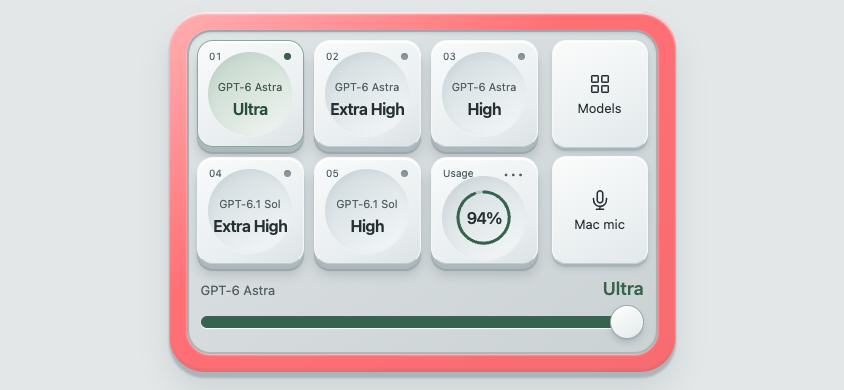
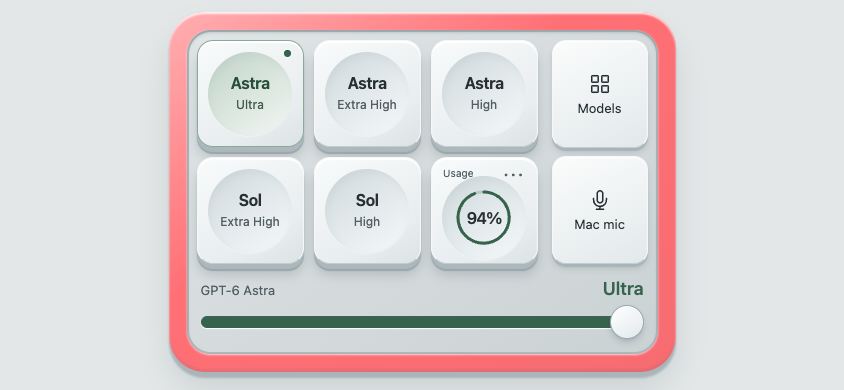
Simplify preset labels and explain the Codex Deck workflow

diff --git a/Sources/CodexUsageWeb/Resources/deck.js b/Sources/CodexUsageWeb/Resources/deck.js
@@ -16,6 +16,19 @@
     return String(model || "Model").replace(/^gpt-/i, "GPT-").replace(/-(astra|sol|luna|terra)$/i, (_, name) => " " + name[0].toUpperCase() + name.slice(1));
   }
 
+  function presetModelLabels(presets, models = []) {
+    const names = presets.map(preset => {
+      const model = models.find(item => [item.id, item.name].some(value => modelIdentity(value) === modelIdentity(preset.model)));
+      const full = modelLabel(model?.name || preset.model);
+      const match = /^GPT[- ](\d+(?:\.\d+)?) (Astra|Sol|Luna|Terra)$/i.exec(full);
+      return { full, version: match?.[1], family: match?.[2] };
+    });
+    return names.map(name => {
+      const ambiguous = name.family && names.some(other => other.family?.toLowerCase() === name.family.toLowerCase() && other.version !== name.version);
+      return { full: name.full, short: name.family ? name.family + (ambiguous ? ` ${name.version}` : "") : name.full };
+    });
+  }
+
   // Match PickerLabels.modelKey for read-only selected-state display.
   function modelIdentity(model) {
     return String(model || "").toLowerCase().replace(/[^\p{L}\p{N}]/gu, "").replace(/^gpt/, "");
@@ -615,21 +628,21 @@
       byID("notice-text").textContent = message || "";
       byID("feedback").textContent = feedback?.message || message || "";
       const presets = (snapshot?.presets || []).slice(0, 5);
-      const signature = JSON.stringify(presets);
+      const labels = presetModelLabels(presets, models);
+      const signature = JSON.stringify([presets, labels]);
       if (signature !== presetSignature) {
         presetSignature = signature;
-        keys = presets.map(preset => {
+        keys = presets.map((preset, index) => {
           const button = element("button", "deck-key model-key");
           button.type = "button";
-          const top = element("span", "key-top");
           const status = element("span", "sr-only");
           const led = element("span", "key-led");
           led.setAttribute("aria-hidden", "true");
-          top.append(element("span", "key-number", String(preset.slot).padStart(2, "0")), led, status);
-          const name = modelLabel(preset.model);
+          const name = labels[index];
           const effort = effortLabels[preset.effort] || preset.effort;
-          button.append(top, element("span", "key-model", name), element("span", "key-effort", effort));
-          button.setAttribute("aria-label", `${preset.slot}: ${preset.title || `${name}, ${effort}`}`);
+          button.append(led, status, element("span", "key-model", name.short), element("span", "key-effort", effort));
+          button.setAttribute("aria-label", `${preset.slot}: ${name.full}, ${effort}`);
+          button.title = `${preset.title || `${name.full} · ${effort}`} (⌘⌃${preset.slot})`;
           button.addEventListener("click", () => void controller.applyPreset(preset));
           return { button, status, preset };
         });
@@ -729,7 +742,7 @@
   }
 
   if (typeof module !== "undefined" && module.exports) {
-    module.exports = { deckActivity, modelEffort, validControl, pressFeedback, DeckController, consumePairingToken, modelLabel, isPresetSelected, usagePercent, POLL_INTERVAL };
+    module.exports = { presetModelLabels, deckActivity, modelEffort, validControl, pressFeedback, DeckController, consumePairingToken, modelLabel, isPresetSelected, usagePercent, POLL_INTERVAL };
   } else {
     const token = consumePairingToken(window.location, window.history);
     let render = () => {};

diff --git a/Sources/CodexUsageWeb/Resources/deck.css b/Sources/CodexUsageWeb/Resources/deck.css
@@ -76,14 +76,14 @@ h1, h2, p { margin: 0; }
 .catalog-key[aria-pressed="true"] .catalog-name { color: #294f3c; }
 .catalog-key[aria-pressed="true"]::after { content: ""; position: absolute; right: 9px; top: 9px; width: 6px; height: 6px; border-radius: 50%; background: var(--green); }
 .key-top { position: absolute; top: 9%; left: 11%; right: 11%; display: flex; align-items: center; justify-content: space-between; gap: 5px; color: var(--secondary); font-size: clamp(.625rem, 7cqw, .875rem); font-variant-numeric: tabular-nums; }
-.key-led { width: 7px; height: 7px; border-radius: 50%; background: #8c999f; box-shadow: inset 0 1px 2px #26323840; }
-.key-model { color: var(--secondary); font-size: clamp(.6875rem, 9cqw, 1.125rem); line-height: 1.35; overflow-wrap: anywhere; margin-top: 12px; }
-.key-effort { font-size: clamp(1rem, 15cqw, 2.125rem); line-height: 1.15; font-weight: 650; letter-spacing: -.035em; margin-top: 5px; overflow-wrap: anywhere; }
+.key-led { position: absolute; top: 9%; right: 11%; width: 7px; height: 7px; border-radius: 50%; visibility: hidden; }
+.key-model { max-width: 100%; font-size: clamp(1rem, 15cqw, 2.125rem); line-height: 1.15; font-weight: 650; letter-spacing: -.025em; overflow-wrap: anywhere; display: -webkit-box; -webkit-line-clamp: 2; -webkit-box-orient: vertical; overflow: hidden; }
+.key-effort { color: var(--secondary); font-size: clamp(.75rem, 9cqw, 1.0625rem); line-height: 1.3; font-weight: 450; margin-top: 5px; overflow-wrap: anywhere; }
 .deck-key[aria-pressed="true"] { border-color: #8ba99b; }
 .deck-key[aria-pressed="true"]::before { background: linear-gradient(145deg, #c1d4c9, #e4ede7 72%, #f3f7f4); }
-.deck-key[aria-pressed="true"] .key-model { color: #415c4e; }
-.deck-key[aria-pressed="true"] .key-effort { color: #294f3c; }
-.deck-key[aria-pressed="true"] .key-led { background: #35634c; box-shadow: inset 0 1px 1px #1c3c2c80, 0 1px 1px #fff; }
+.deck-key[aria-pressed="true"] .key-model { color: #294f3c; }
+.deck-key[aria-pressed="true"] .key-effort { color: #415c4e; }
+.deck-key[aria-pressed="true"] .key-led { visibility: visible; background: #35634c; box-shadow: inset 0 1px 1px #1c3c2c80, 0 1px 1px #fff; }
 .deck-key[aria-busy="true"] .key-led { background: var(--warm); }
 .deck-key[aria-busy="true"] { border-color: var(--warm); }
 .deck-key:disabled { opacity: .48; }

diff --git a/README.md b/README.md
@@ -1,11 +1,25 @@
 # Codex Deck
 
-An open-source Codex controller for your phone or tablet, with a macOS menu bar companion. Previously named Codex-Usage.
+**English · [한국어 README 바로 보기 →](README.ko.md)**
 
-[한국어 사용 설명서](README.ko.md)
+**Save your model and reasoning presets. Switch with a shortcut or a tap. See your Codex usage at a glance.**
 
-A macOS menu bar companion for **remaining Codex quota**, **model preset shortcuts**, and a **phone Web Deck**.
-Change the current chat's model and reasoning effort together without opening the model picker. Use five preset keys or an inline model catalog and horizontal effort slider in your phone's browser on the same Wi-Fi. Start Mac dictation, review a waiting permission request, or answer Codex's current question from the same deck. No Stream Deck hardware is required.
+Codex Deck is an open-source macOS companion for Codex. Set up the model and reasoning level you use together—such as Astra Ultra or Sol High—then apply the combination to your current chat in one action. Use keyboard shortcuts on your Mac or turn your existing phone or tablet into a deck on the same Wi-Fi. Previously named Codex-Usage.
+
+## Why I built it
+
+I wanted to see my remaining Codex usage without digging through menus. Switching models and reasoning levels also meant moving the mouse, opening the picker, and clicking through options over and over. Those small interruptions added up during everyday work.
+
+I built Codex Deck to keep my favorite combinations ready and switch them instantly from a shortcut or my phone. I also wanted a software alternative to the controls I would use on OpenAI's Codex Micro, using a phone I already own without buying dedicated hardware. This is an independent open-source companion, not an official OpenAI product or a complete replacement for every Micro feature.
+
+## What it does
+
+- **Model + reasoning presets:** save five frequently used combinations in editable JSON. Each preset applies both values together.
+- **Mac keyboard shortcuts:** press `⌘⌃1`–`⌘⌃5` while Codex is in front to switch the current chat without opening its model picker.
+- **Phone or tablet deck:** tap the same presets from a paired browser on your Wi-Fi. Use portrait or landscape, a model catalog, and a horizontal reasoning slider. No Codex Micro or Stream Deck hardware is needed.
+- **Usage at a glance:** see remaining quota in the macOS menu bar and as a percentage ring on the deck.
+
+The deck also supports Mac dictation and responses to the active chat's supported pending questions or approval requests. [See the control guide](docs/codex-micro.md).
 
 ## Preview
 
@@ -33,7 +47,7 @@ User-provided screenshot of a weekly-only account: the green ring shows 94% rema
 
 <img src="docs/web-deck-questions.png" alt="A pending question with selectable answers and a request-specific text field" width="500" />
 
-Version 0.9.2, rendered with synthetic offline fixture data. These landscape, portrait, model catalog, slider, and question previews illustrate the interface; they are not photos of a phone controlling live Codex. The recording state, requests, and quota in these examples are simulated.
+Version 0.9.4, rendered with synthetic offline fixture data. These landscape, portrait, model catalog, slider, and question previews illustrate the interface; they are not photos of a phone controlling live Codex. The recording state, requests, and quota in these examples are simulated.
 
 ---
 
@@ -126,6 +140,8 @@ Turn off **Open Codex Automatically** to start only the usage companion. Turning
 
 White keys have a recessed face, gray raised edge, short press effect, and an always-enabled click from a bundled audio file; there is no sound toggle. A supported-device vibration accompanies the press. Playback starts from your tap and does not run continuously. The page cannot override device volume, hardware mute, or browser audio restrictions. If you hear nothing, check the media volume and browser sound settings. Reduced-motion preferences disable key movement; unsupported sound, vibration, or fullscreen does not block the controls.
 
+Preset keys show the **model family prominently** and the **reasoning level beneath it**: `Astra / Ultra`, `Astra / Extra High`, `Astra / High`, `Sol / Extra High`, and `Sol / High`. There are no printed slot numbers or inactive indicator dots; only the selected key shows its small indicator. Full model names remain in **Models**, the slider, tooltips, and accessible labels. If your presets contain different versions of the same family, the keys include the version (`Sol 6`, `Sol 6.1`). Custom model names are preserved. These shorter labels do not change saved IDs, efforts, or keyboard mappings.
+
 The 0.9.1 tone has a soft attack and a rounded 180 ms tail. Rapid button presses can overlap briefly instead of cutting off the previous tone; the slider plays once on release rather than at every crossed step. The original sound can be regenerated with `python3 Scripts/generate_feedback_sound.py`.
 
 The sixth tile shows **remaining quota as a percentage only** inside its ring, with no “remaining” label underneath. It prioritizes the weekly window (otherwise the first available window). Tap **Usage** for full usage details and reset information. Missing or expired quota, or a lost connection, displays **—**. Connection and error notices appear only when needed.
@@ -152,7 +168,7 @@ If the active chat, preset, model catalog, or waiting request changes before an 
 
 Selections appear immediately as pending. A confirmed response keeps the same key and slider position, without briefly repainting the old selection. Dragging is continuous and release selects the nearest supported level. You can keep adjusting while a change is in progress: only the most recent trailing value is sent after the current request. A failure drops queued input and restores the last confirmed state; changing chats during a drag cancels that gesture.
 
-Use the **slider directly on the deck** to change the current model's effort. Tap **1 · Astra Ultra**, then slide to **High** and release: the chat becomes **Astra High**, without opening a dialog or changing the model. The bar follows every confirmed preset selection and exposes only that model's supported levels. Arrow keys move one level, and Home/End move to the minimum/maximum. The Mac confirms the result before the deck shows success.
+Use the **slider directly on the deck** to change the current model's effort. Tap **Astra / Ultra**, then slide to **High** and release: the chat becomes **Astra High**, without opening a dialog or changing the model. The bar follows every confirmed preset selection and exposes only that model's supported levels. Arrow keys move one level, and Home/End move to the minimum/maximum. The Mac confirms the result before the deck shows success.
 
 Tap **Models** to replace the preset keys with the active Codex composer’s model catalog. These keys show model names only. Tap a model to apply it; the current effort is preserved when supported, otherwise High is used (or the model’s first supported level). The slider follows the confirmed model.
 
@@ -328,6 +344,8 @@ Version 0.7.0 added six tactile keys and landscape/fullscreen support. Version *
 Version **0.8.2** replaces the rotary dial with a horizontal volume-style effort slider. Drag/release, touch, keyboard input, and five viewport sizes were checked in an offline browser.
 Version **0.9.0** renames the app to Codex Deck and adds an inline **Models / Presets** view switch. The model keys show names only; selecting one keeps a supported effort. Browser fixtures verify view switching, model selection, slider behavior, and disconnected states.
 Version **0.9.1** adds a softer original key tone, immediate pending selection, continuous slider movement, and a single latest-value effort queue. Successful model writes use the host-verified acknowledgement immediately and resume normal polling, eliminating the extra old-state repaint and read. Slow-response, failure, target-change, and keyboard cases were checked with isolated fixtures.
+
+Version **0.9.4** simplifies preset faces to a prominent model family and smaller reasoning level, removes slot numbers and inactive dots, and keeps version labels when needed to distinguish presets. Pointer/touch slider focus has no enclosing outline; keyboard focus remains visible. The English and Korean guides now explain the preset workflow and the motivation behind the project.
 
 Version **0.9.2** widens the frame and maps its five colors to identity-scoped native chat status, with a neutral fallback when status is unavailable. The bridge, typed payload, and responsive browser states were checked with isolated fixtures; live Codex status and physical-phone behavior were not agent-verified.
 Version **0.8.3** puts the effort slider directly on the deck. Selecting a preset synchronizes the bar; moving it preserves the active model and changes only its effort. The Astra Ultra → High and Sol Extra High → High flows were verified with offline fixtures.

diff --git a/DESIGN.md b/DESIGN.md
@@ -37,13 +37,14 @@ typography:
     fontSize: "1.2rem"
     fontWeight: 600
   key-model:
-    fontSize: "clamp(.6875rem, 9cqw, 1.125rem)"
-    lineHeight: 1.35
-  key-effort:
     fontSize: "clamp(1rem, 15cqw, 2.125rem)"
     fontWeight: 650
     lineHeight: 1.15
-    letterSpacing: "-.035em"
+    letterSpacing: "-.025em"
+  key-effort:
+    fontSize: "clamp(.75rem, 9cqw, 1.0625rem)"
+    fontWeight: 450
+    lineHeight: 1.3
   usage:
     fontSize: "clamp(1rem, 19cqw, 2.75rem)"
     fontWeight: 600
@@ -100,7 +101,7 @@ components:
 
 The user's white Codex Micro photo sets the material direction: pale square keycaps, shallow dished faces, softly beveled edges, and visible key thickness on a cool gray board. Charcoal labels and icons stay clear against the light surfaces. Depth communicates pressable controls without adding branding or a persistent header.
 
-Scope: `Sources/CodexUsageWeb/Resources/`. The native AppKit menu retains its platform styling. These tokens describe the implemented 0.9.2 web surface; its stylesheet remains the implementation source.
+Scope: `Sources/CodexUsageWeb/Resources/`. The native AppKit menu retains its platform styling. These tokens describe the implemented 0.9.4 web surface; its stylesheet remains the implementation source.
 
 **Key Characteristics:**
 - Square white keys with recessed circular faces.
@@ -114,7 +115,7 @@ Cool white and gray establish the hardware material; dark green identifies selec
 
 ## Typography
 
-Use the native system UI stack, with rem sizes for dialogs, forms, and dock controls. Key model, effort, and usage type scale within each key's container, bounded by rem minimums and maximums. Effort is the dominant label, with the model above it. Use tabular numerals for key numbers and percentages. No external font assets.
+Use the native system UI stack, with rem sizes for dialogs, forms, and dock controls. Key model, effort, and usage type scale within each key's container, bounded by rem minimums and maximums. The model family is the dominant label, with the reasoning effort below it. Use tabular numerals for key numbers and percentages. No external font assets.
 
 ## Layout
 
@@ -132,7 +133,7 @@ Keys retain a square silhouette with softly rounded corners. Each dished face is
 
 ## Components
 
-- **Preset keys:** model above effort, small key number and indicator at the top. Confirmed selection changes the recess, label, border, and LED; pending uses amber. Preserve selected, busy, disabled, and focus states. Never show success before host confirmation.
+- **Preset keys:** prominent model family above smaller effort, with a small indicator only for the selected key. No printed slot number. Confirmed selection changes the recess, label, border, and LED; pending uses amber. Preserve selected, busy, disabled, and focus states. Never show success before host confirmation.
 - **Usage key:** a circular track with the percentage only; no “remaining” caption. Unknown, expired, or offline data uses an em dash. Opens the native dialog for the active chat, usage details, fullscreen, refresh, and disconnect.
 - **Model controls:** an inline catalog of model-name keys toggled by Models / Presets and an always-visible horizontal range input directly on the deck, labeled with the active model and effort. Keep native touch and keyboard semantics. Preset confirmation synchronizes the slider. Pointer movement previews and release changes only the active model’s effort; saved presets remain unchanged. Choosing a different model applies a supported effort.
 - **Dock and requests:** Model, Mac mic, and a Requests control only when supported requests are waiting. Recording has an explicit red state. Request dialogs show relevant options and text fields with clear Allow once/Deny treatments.
@@ -154,3 +155,5 @@ The model catalog occupies the preset grid’s existing footprint with two colum
 In 0.9.2 the outer frame is `clamp(22px, 4vmin, 38px)` wide, with a separate `clamp(12px, 2vmin, 20px)` inner pad. Short landscape uses 18px + 10px. The frame carries the native chat status: white idle, pale green unread completion, pale blue thinking, peach input required, and red chat error. Unknown/offline is gray. The inset panel and white keys retain their materials. Change color without animation or extra polling, and expose the same status in Usage and a screen-reader live region.
 
 The effort range has no enclosing border, focus outline, or tap highlight during pointer/touch use, including after release. Only keyboard focus receives the existing focus outline. Preserve the thumb's physical edge and the track's recessed material.
+
+In 0.9.4, the five preset labels use Astra / Ultra, Astra / Extra High, Astra / High, Sol / Extra High, and Sol / High. Keep full display names in the catalog, slider, title and accessible name. For same-family version collisions use labels such as Sol 6 and Sol 6.1; do not abbreviate custom model names. Long custom names clamp visually to two lines while the full identity remains accessible. The primary model label uses ink / selected-ink, and the smaller effort uses secondary / selected-secondary.

diff --git a/PRODUCT.md b/PRODUCT.md
@@ -34,3 +34,5 @@ The native companion remains the host and source of presets and usage. A browser
 The user's Stream Deck reference sets a compact button-grid interaction, and their white Codex Micro photo sets the visual direction: pale square keycaps with recessed circular faces, light gray framing, soft bevels, visible thickness, and charcoal labels and icons. Five model keys and one circular usage tile form a centered 3 × 2 grid in landscape or 2 × 3 grid in portrait. The keys use the largest square size that fits alongside the effort bar and compact model/mic/request dock. In landscape the dock sits to the right of the keys and the slider spans the bottom; portrait keeps the slider and dock below the keys. The ring displays a percentage without a remaining caption. Keep English interface labels and physical press feedback without a persistent header, explanation, or extra branding. The native macOS menu retains its platform styling. Micro-style interactions are implemented through the existing direct bridge; no physical Micro, HID emulation, or feature-gate overrides are part of the product.
 
 The Models button replaces preset keys with model-name buttons and becomes Presets to return. No sets or arbitrary Mac shortcuts. Returning changes only the view. The slider stays visible in both views; model selection preserves the current effort when supported, otherwise High or the first supported effort.
+
+Preset faces prioritize the model family (Astra, Sol) above a smaller explicit reasoning label. Hide printed slot numbers and inactive LED dots. Show a version only when distinct models in the preset group share that family; retain full custom names and full model identities in the catalog and accessible labels. This is a display change, never a model ID or configuration migration.

diff --git a/docs/codex-micro.md b/docs/codex-micro.md
@@ -8,7 +8,7 @@ For installation, pairing, and JSON preset editing, use the [English README](../
 
 | Control | How to use it | Scope |
 | --- | --- | --- |
-| Five model keys | Tap a key; wait for the confirmed selection. | Applies the corresponding `presets.json` model and effort to the active saved chat. |
+| Five model keys | Read the model family above its reasoning level. Tap a key; wait for the confirmed selection. | Applies the corresponding `presets.json` model and effort to the active saved chat. |
 | Usage | Read the percentage in the ring; tap for details, refresh, fullscreen, or disconnect. | Remaining quota, preferring the weekly window. Missing/expired/offline data is `—`. |
 | Effort slider | Drag the bar directly on the deck, then release. | Keeps the current model, changing only its effort. For example: preset 1 Astra Ultra → slider High = Astra High. Saved presets stay unchanged. |
 | Models / Presets | Toggle between model-name keys and the five saved presets. Tap a model to apply it. | Keeps a supported current effort, falling back to High or the first supported level. Returning to Presets changes only the view. |

diff --git a/CONTRIBUTING.md b/CONTRIBUTING.md
@@ -54,3 +54,7 @@ Record whether live verification was performed by a tester or reported by a user
 If a development tool blocks Codex access, do not bypass that boundary through
 another transport. User confirmation of 0.3.1 is recorded in the compatibility notes;
 it does not mean later changes or every failure scenario were manually tested.
+
+## Version increments
+
+For the current development series, increment only the patch component by default: `0.9.3` → `0.9.4` → `0.9.5`. Do not change the minor version unless the maintainer explicitly requests it. Update `CFBundleShortVersionString` in `Scripts/package_app.sh` and increment the integer `CFBundleVersion` separately. A version bump or push does not itself publish a release; release tags are a separate action.
